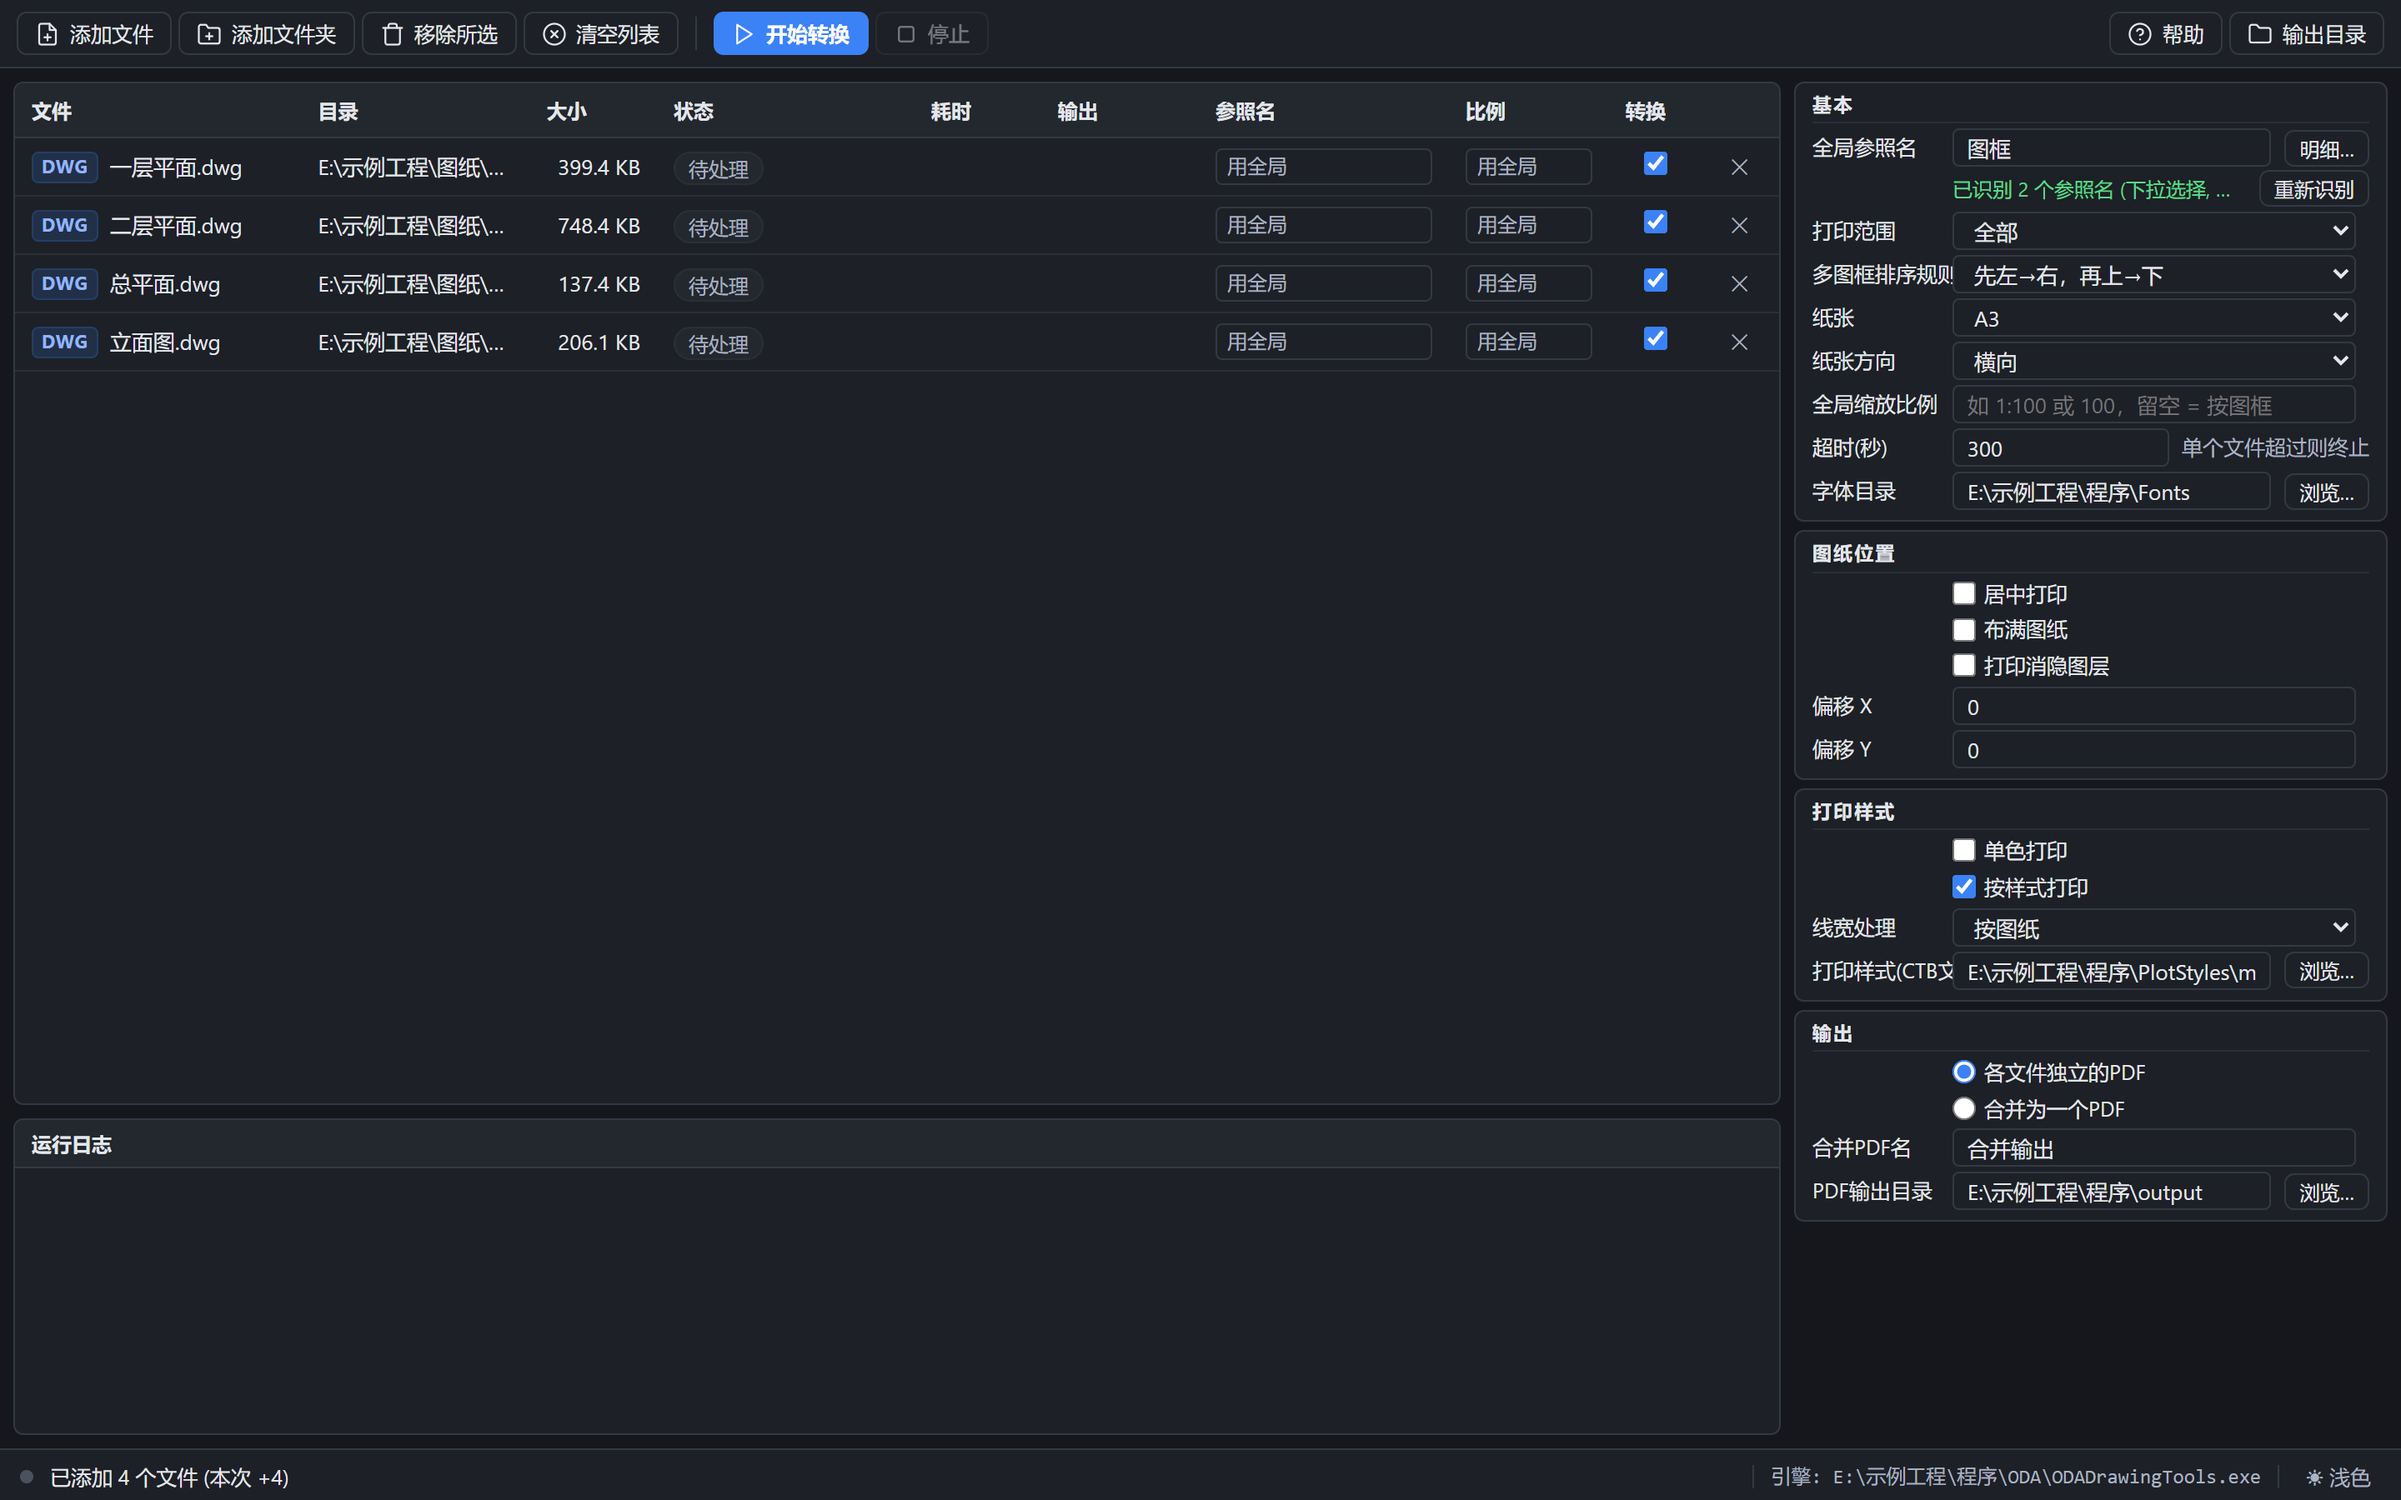
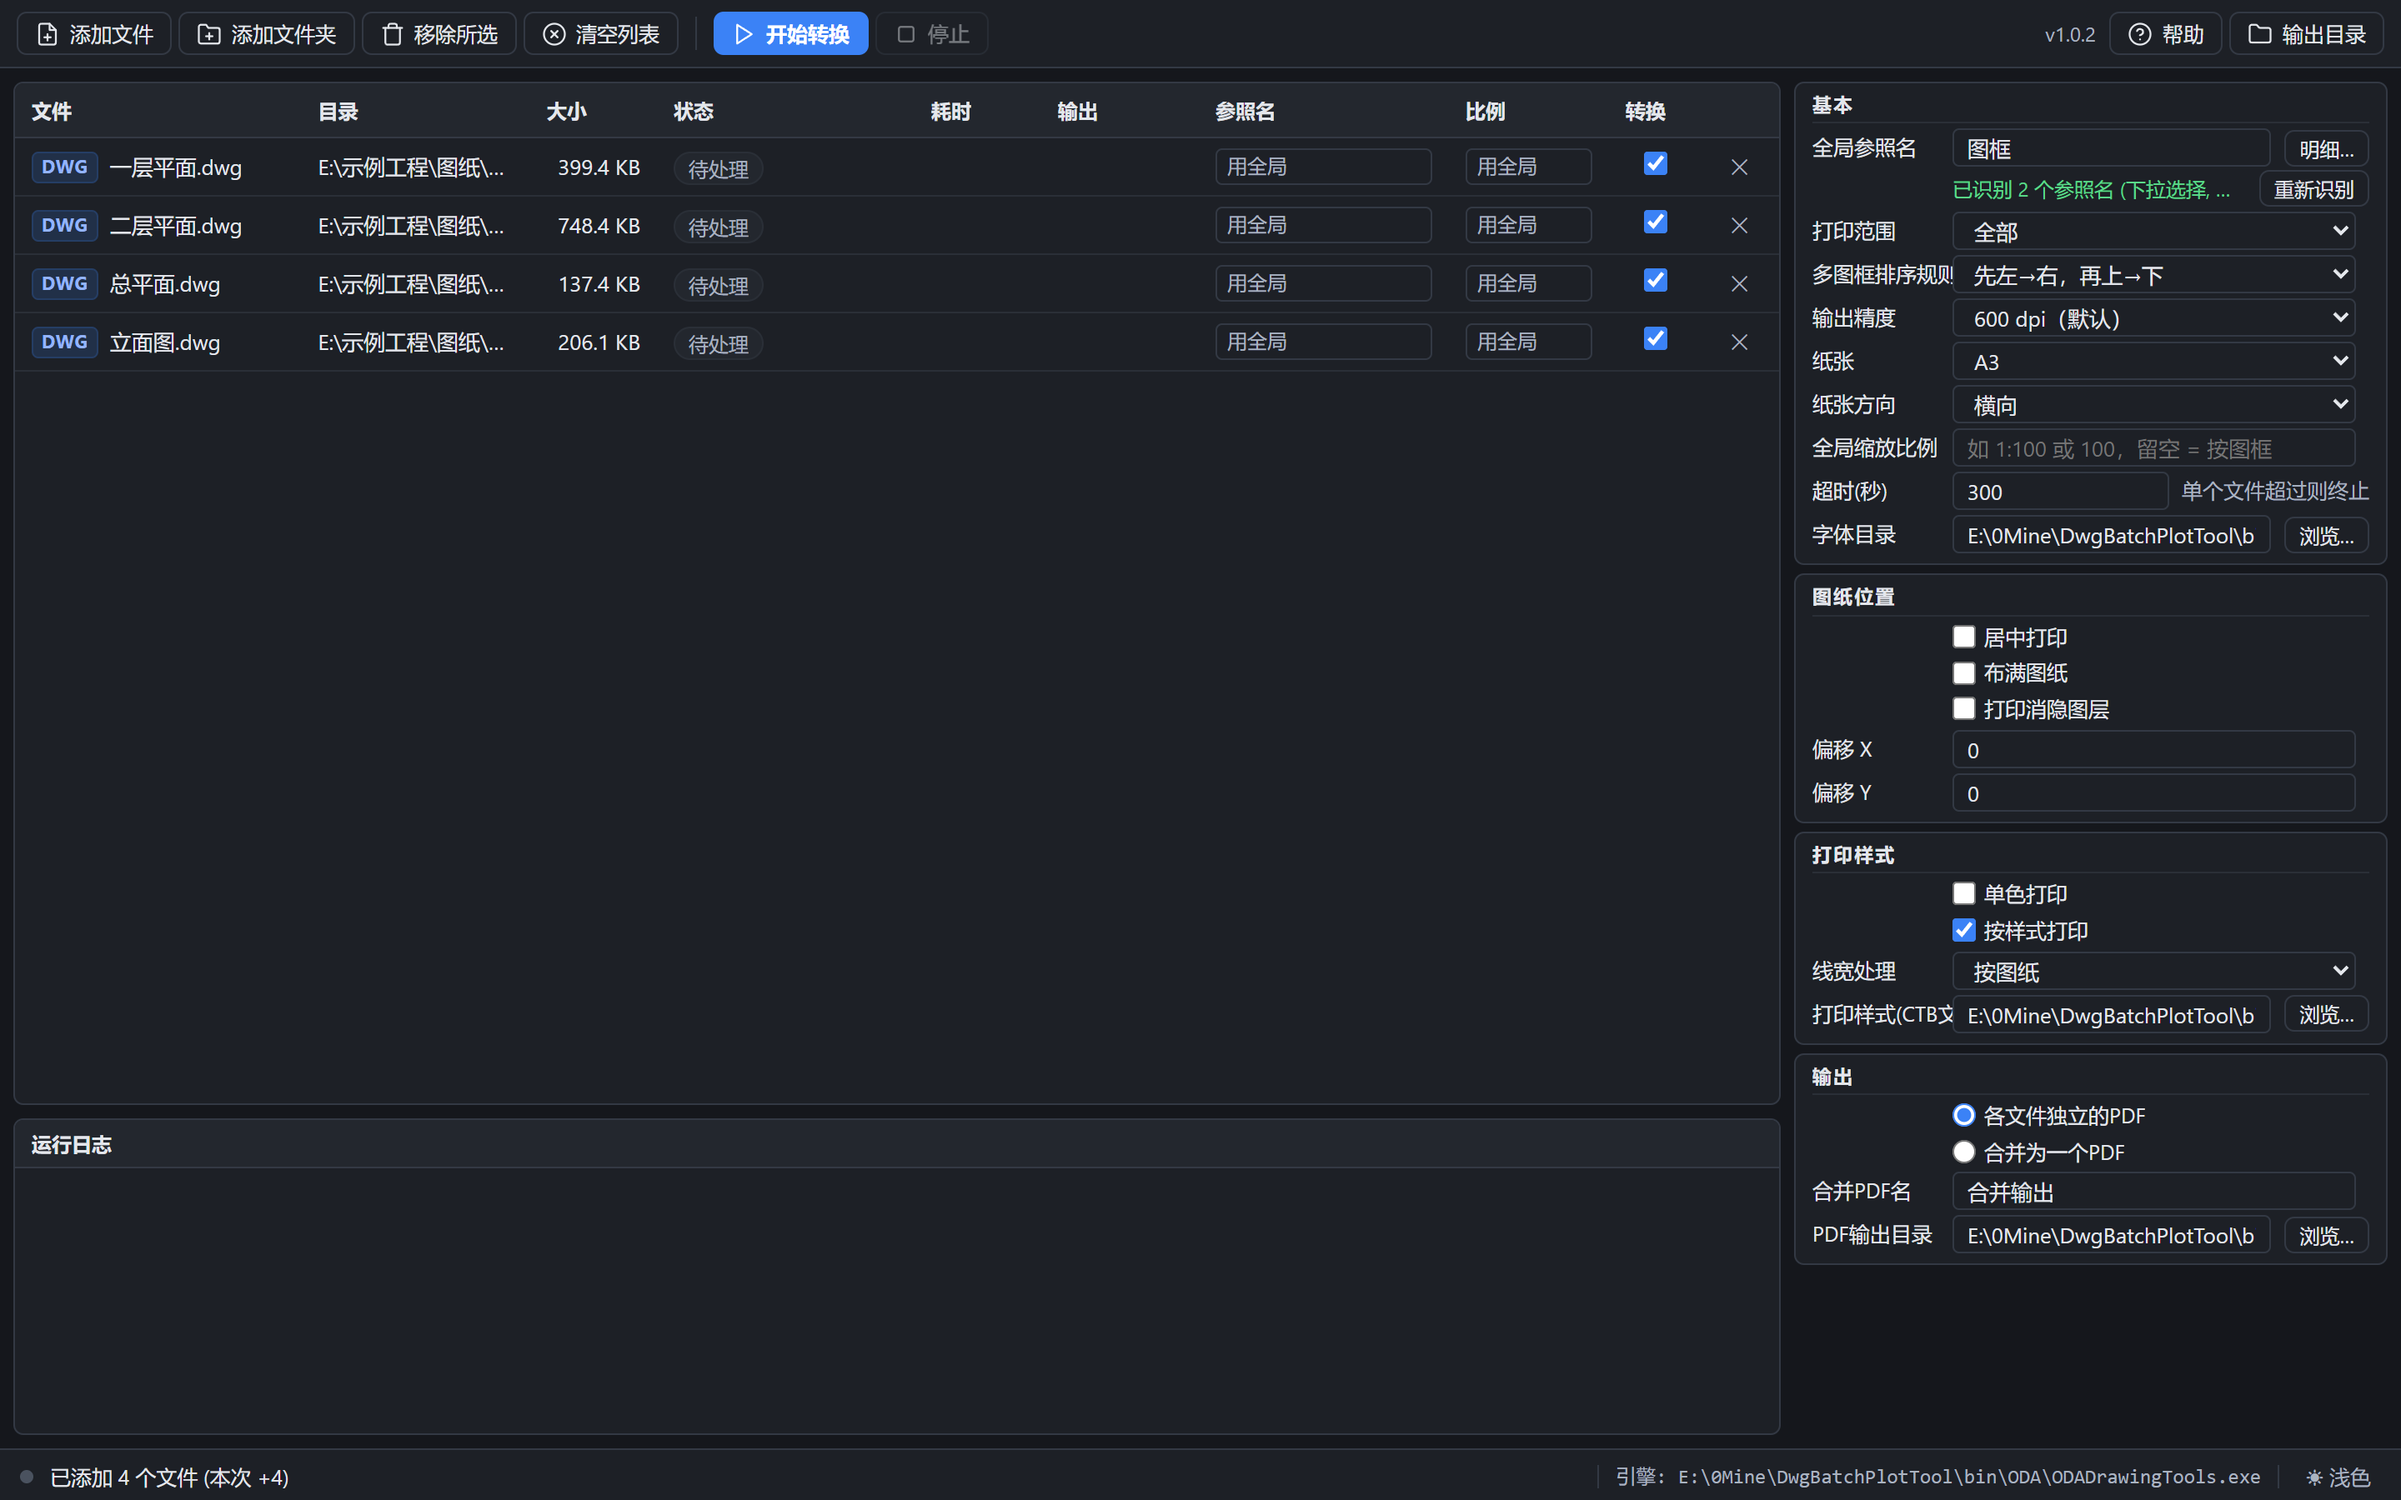
README 更新界面截图，补上帮助页与图片资源的说明
- docs\screenshot.png 换成当前界面（含多图框排序规则、输出精度、打印范围等新选项）。
- 使用帮助一节改成实际内容：界面总览是带 1~6 编号的真实截图（ui\help-ui.png），
  其余插图仍是内嵌 SVG；图片与 help.html 一起编译进 exe。
- 目录树补上 ui\help-ui.png 与 ui\donate.png。

diff --git a/README.md b/README.md
@@ -51,6 +51,8 @@ DwgBatchPlotTool\
 │  │     ├─ help.html         使用帮助（「帮助」按钮弹出）
 │  │     ├─ app.js            页面逻辑（轮询状态、提交参数）
 │  │     ├─ style.css         样式
+│  │     ├─ help-ui.png       帮助页里的界面总览图（docs\shoot_help.py 生成）
+│  │     ├─ donate.png        收款码（README / 帮助页共用这一份）
 │  │     └─ icon.svg          图标源文件
 │  └─ ODADrawingTools\        引擎程序
 │     ├─ Program.cs           ODA 出图引擎主程序（DXF/DWG→PDF）
@@ -105,7 +107,7 @@ DwgBatchPlotTool\
 列表每行有两列操作：**转换**（勾选框，加入的文件默认都勾上，取消勾选的这次不转）和 **✕**（把这行从列表里去掉）。
 勾选状态只影响本次转换，不影响文件本身。
 
-**使用帮助**：工具栏右侧的 **「帮助」** 按钮弹出一份完整说明（快速上手、界面分区图、工作流程图、文件列表各列、参数速查、参照名分页打印示意图、纸张与方向、常见问题、无界面用法）。全部插图是内嵌 SVG，跟着界面深/浅色主题一起变色，不带任何外部图片。内容在 `src\DwgBatchPlotTool\ui\help.html`，编译进 exe，按需从 `help.html` 路由拉取。
+**使用帮助**：工具栏右侧的 **「帮助」** 按钮弹出一份完整说明（快速上手、界面总览图、工作流程图、文件列表各列、参数速查、参照名分页打印示意图、纸张与方向、版本更新、常见问题、无界面用法）。界面总览是一张按控件位置标了 1~6 的真实界面截图（`ui\help-ui.png`），由 `docs\shoot_help.py` 现场生成；其余插图是内嵌 SVG，跟着界面深/浅色主题变色。内容在 `src\DwgBatchPlotTool\ui\help.html`，连同图片一起编译进 exe，按需从 `help.html` / `help-ui.png` 路由拉取。
 
 参数会记在与 `DwgBatchPlotTool.exe` 同目录的 `settings.ini`（即 `bin\settings.ini`），下次打开自动恢复。
 
